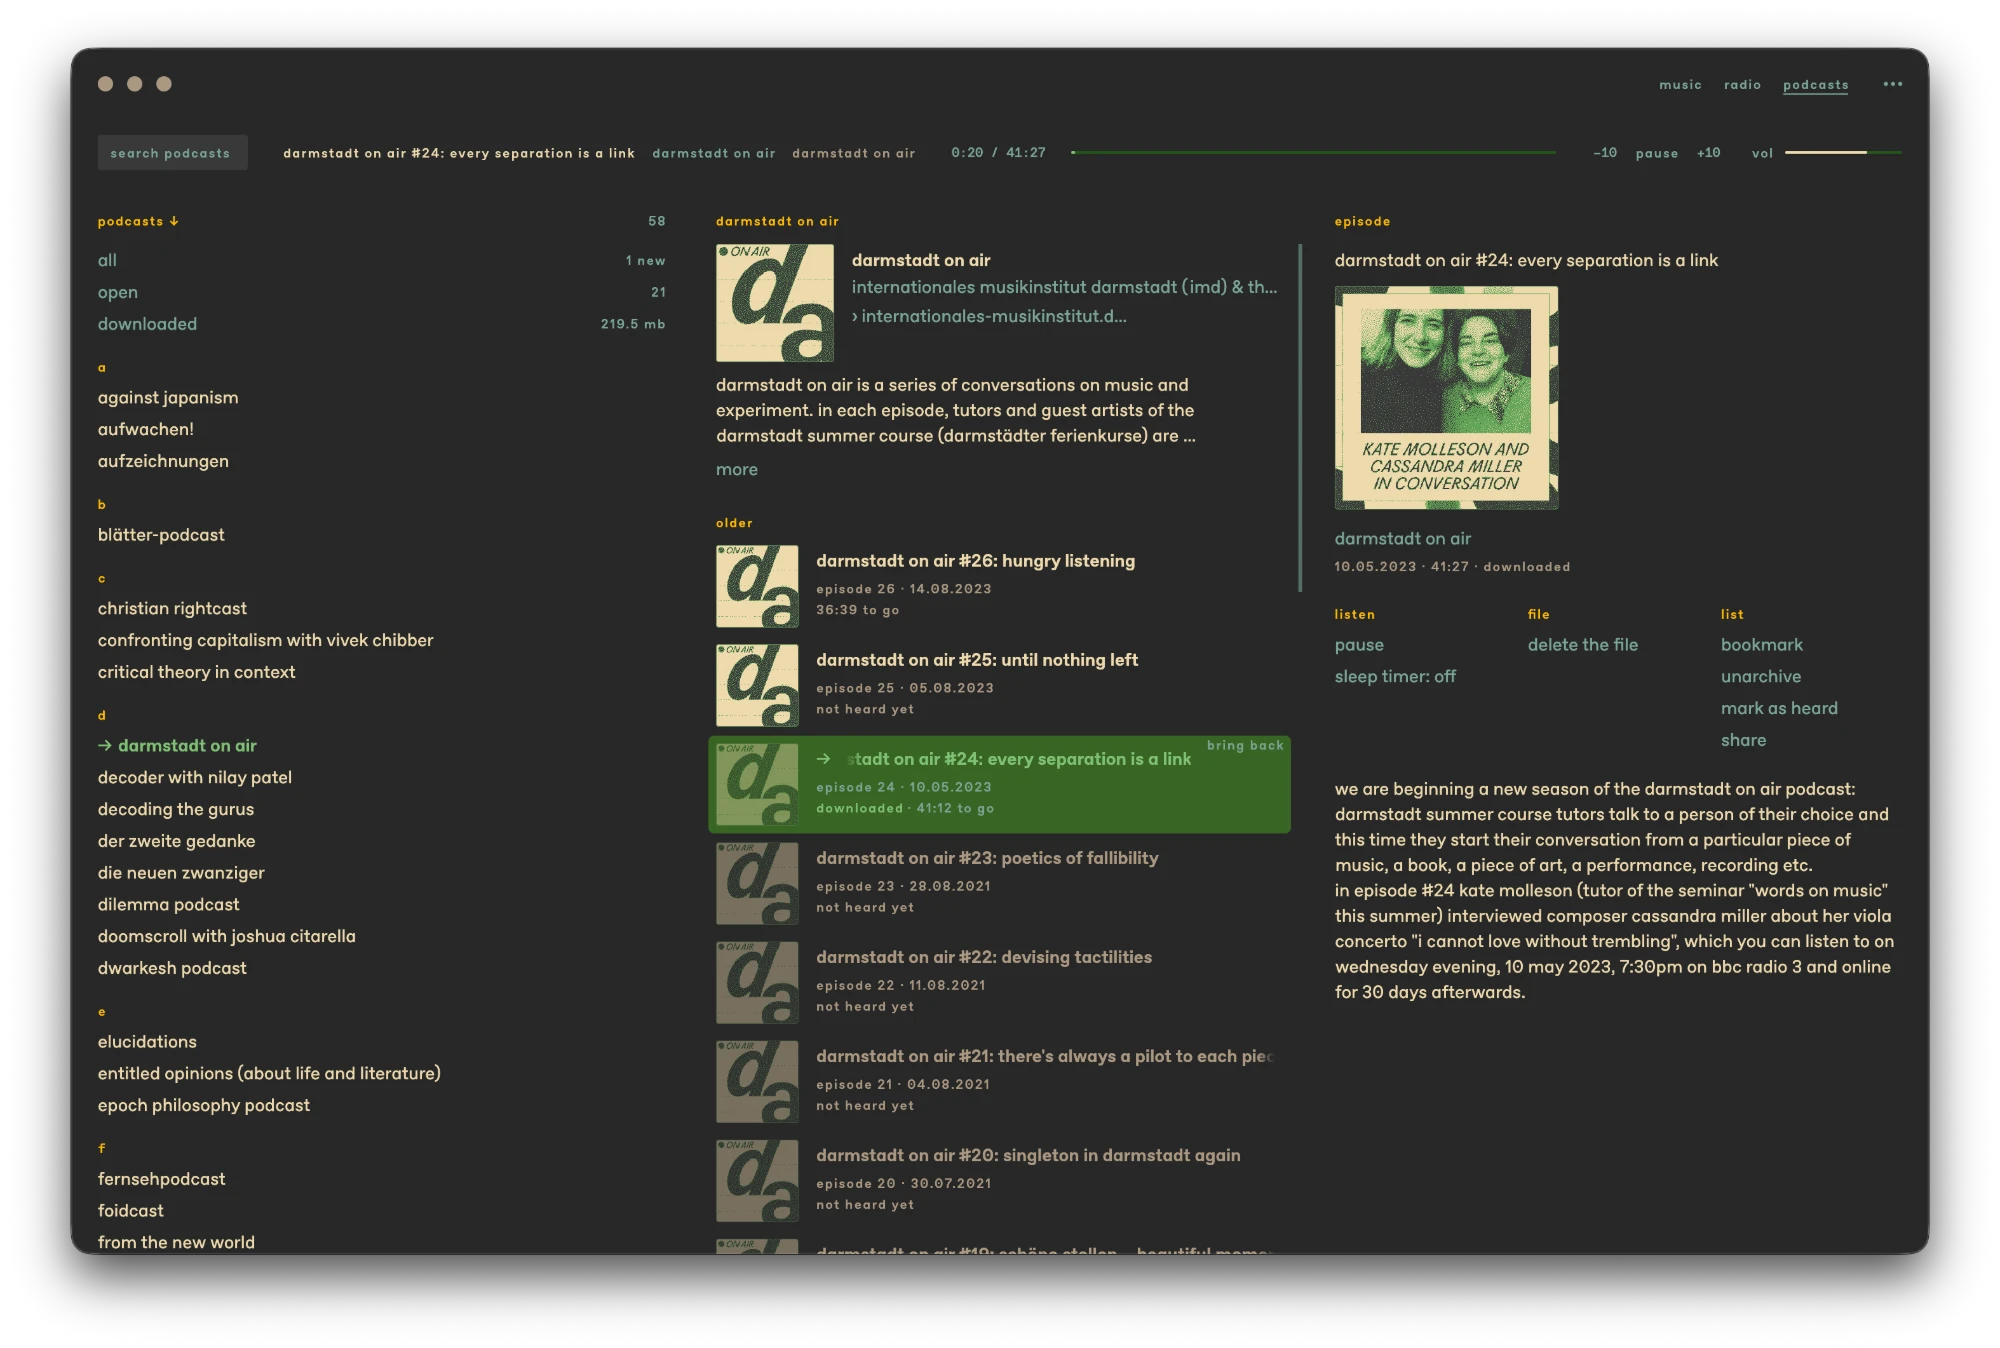
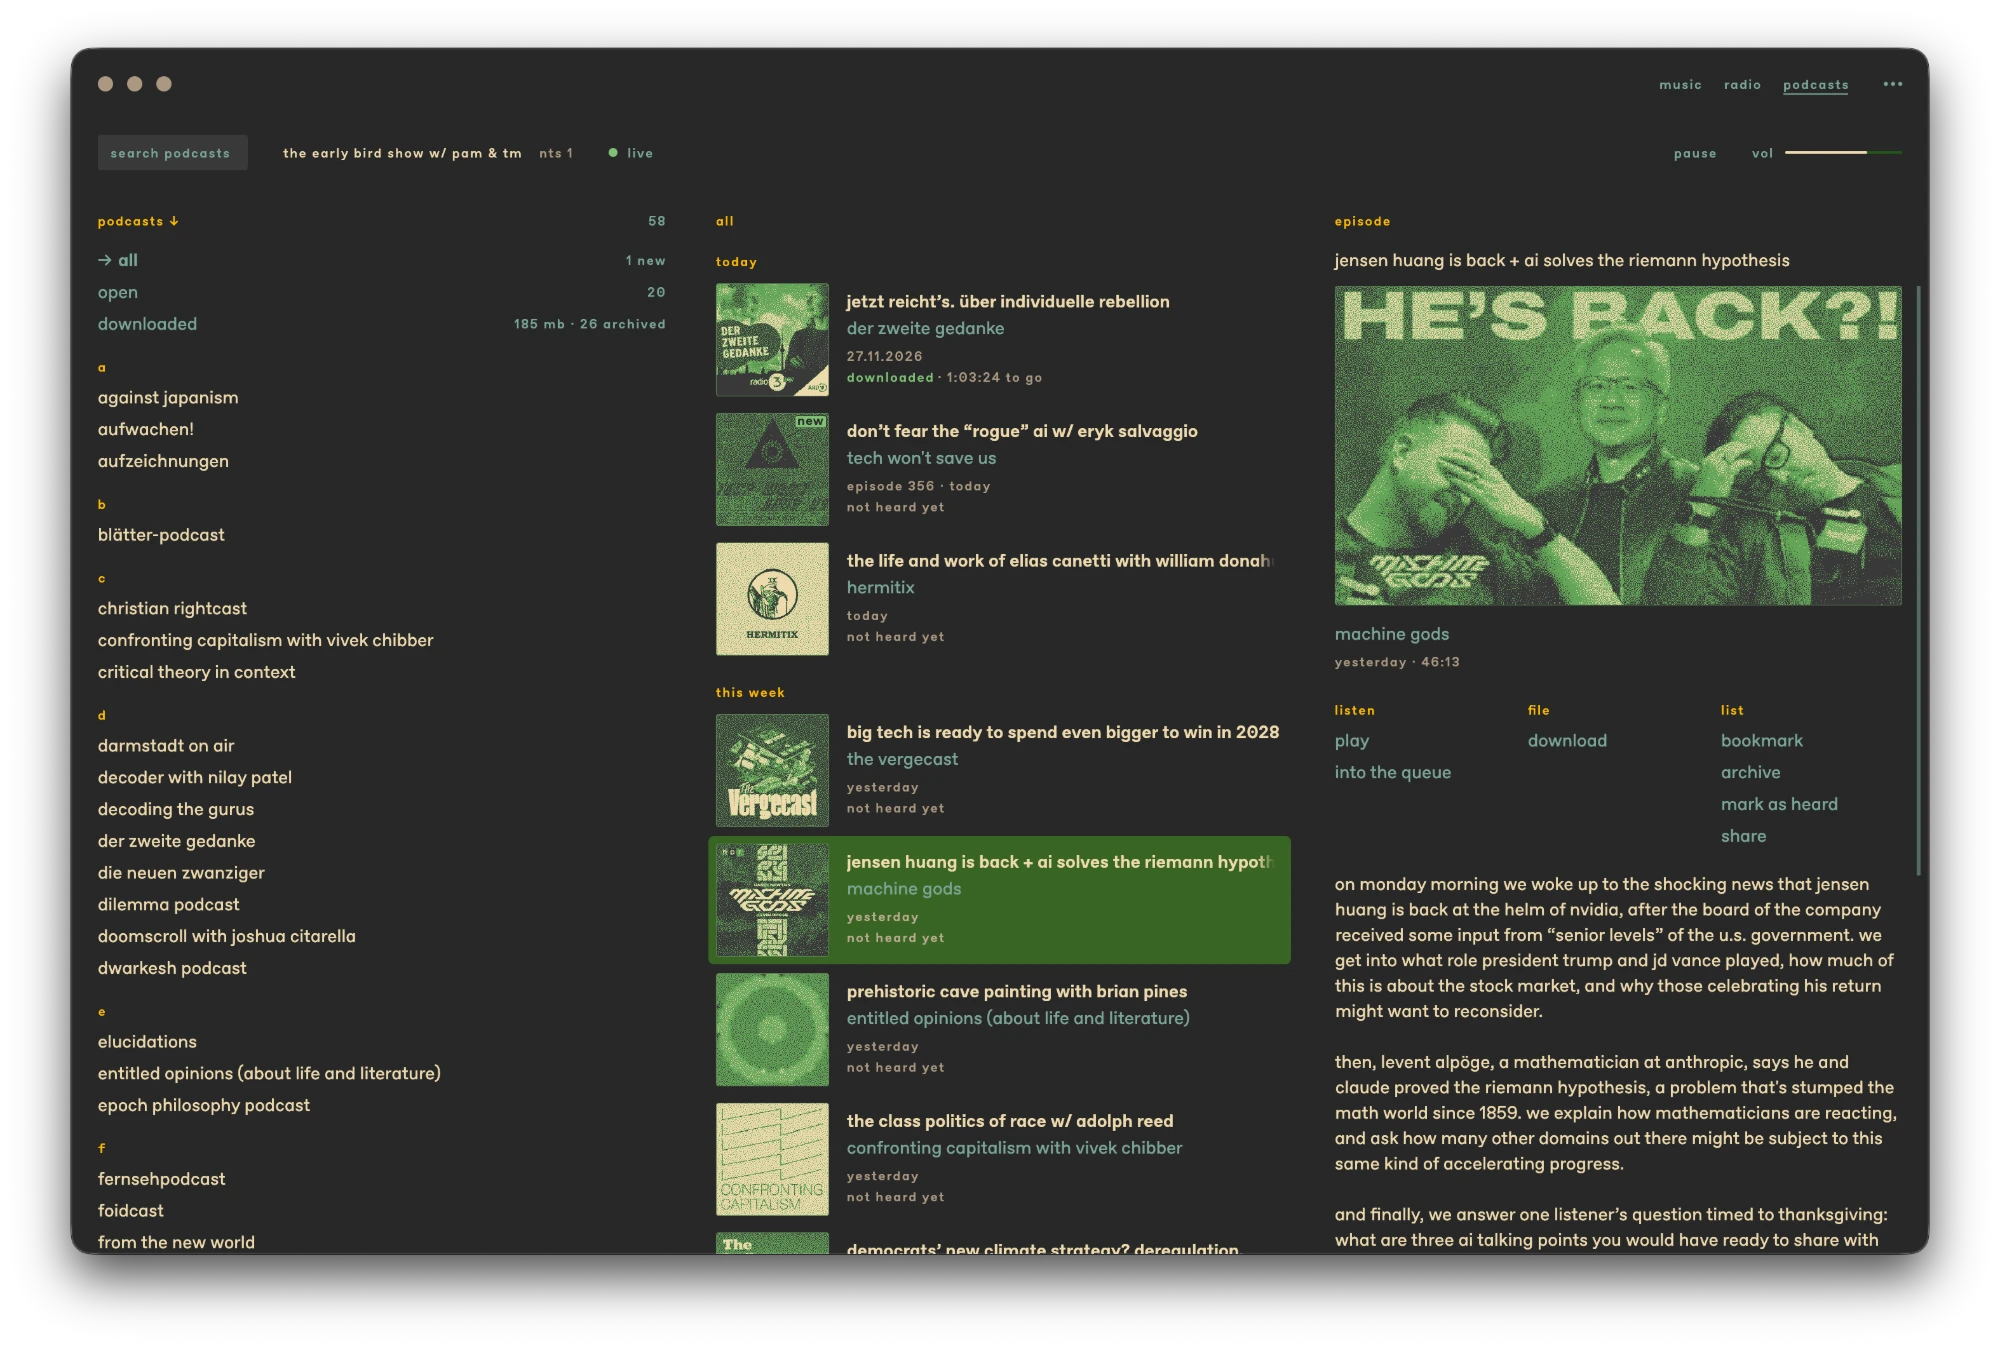
1.5.429: readme — podcasts with the index, a picture of the index and the letter bar

diff --git a/README.md b/README.md
@@ -65,6 +65,12 @@ and it is written in rust with egui and sqlite.
 
 <br>
 
+<p align="center"><sub>index and letter bar</sub></p>
+
+![the artists under their first letters, and the letter bar beside them, the arrow at the letter shown](docs/screenshots/index.webp)
+
+<br>
+
 <p align="center"><sub>radio view</sub></p>
 
 ![the radio: the stations kept, the one on the air, its schedule and the songs kept from it](docs/screenshots/radio.webp)
@@ -73,7 +79,7 @@ and it is written in rust with egui and sqlite.
 
 <p align="center"><sub>podcast view</sub></p>
 
-![the podcasts: the ones followed, a show and its episodes, and the episode playing](docs/screenshots/podcasts.webp)
+![the podcasts: the ones followed, under their first letters, the newest episodes by day, and one episode open](docs/screenshots/podcasts.webp)
 
 <br>
 
